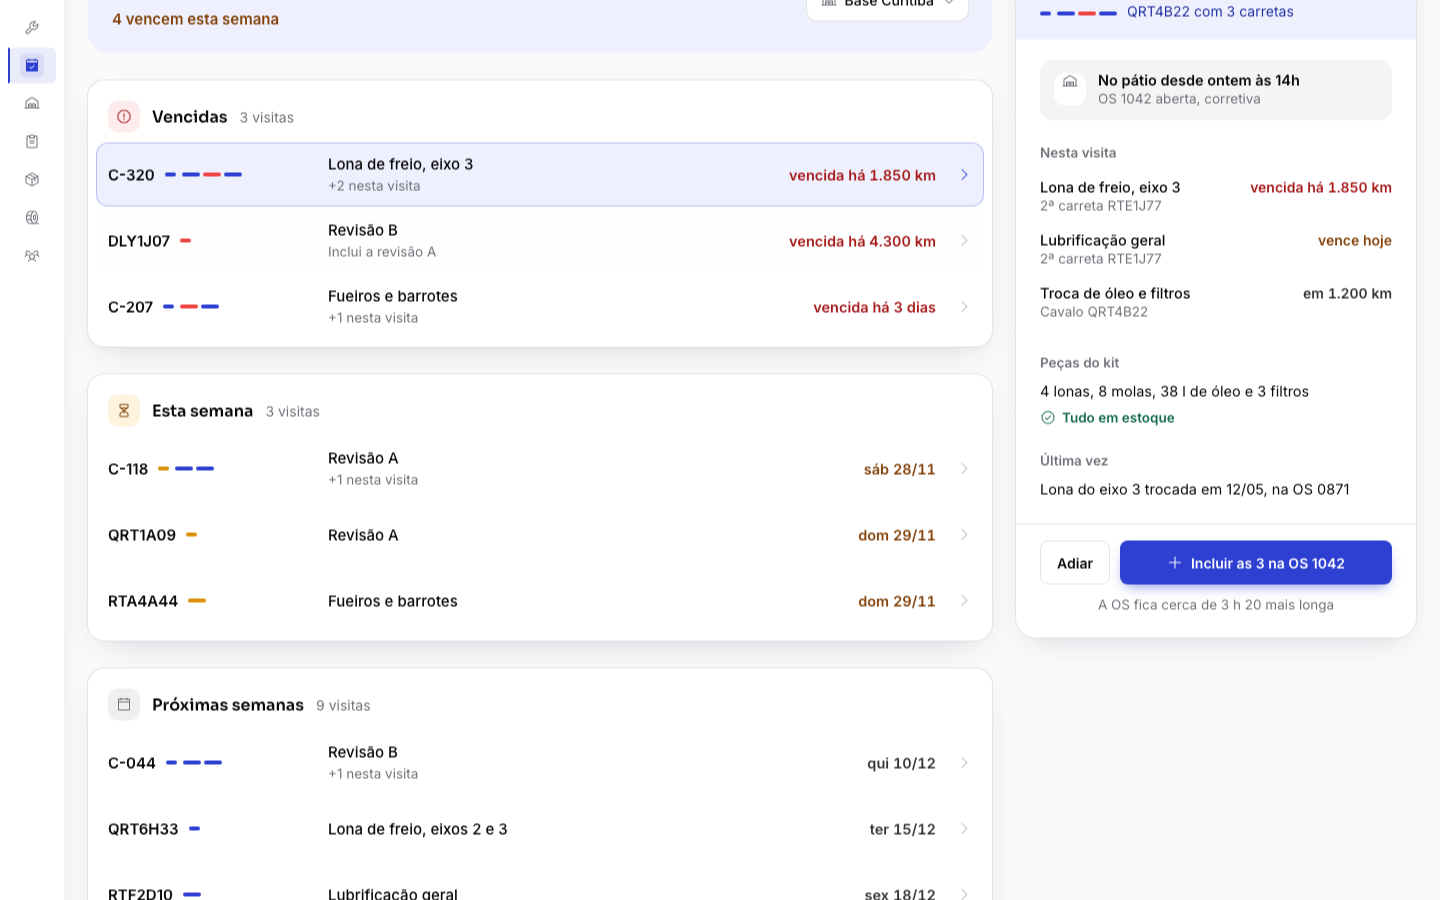
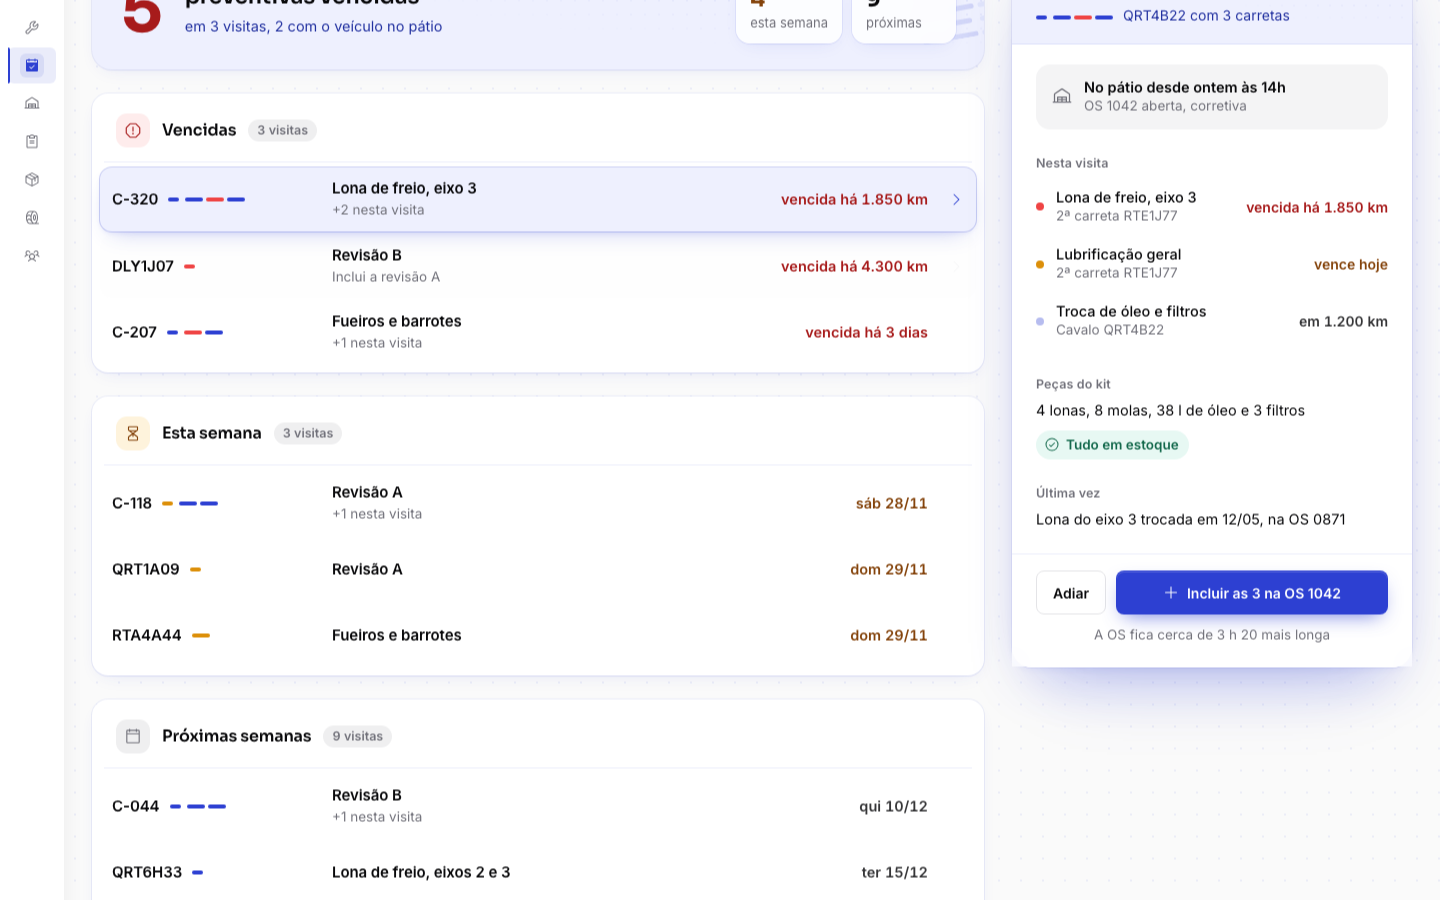
docs(truck): agenda mockup gets depth layers, dot pattern and display summary

diff --git a/static/mockups/truck/preventiva-agenda/agenda.css b/static/mockups/truck/preventiva-agenda/agenda.css
@@ -169,3 +169,115 @@
 .ag.s .hl h2{font-size:24px}
 .xb.back{margin:-4px 0 0 -8px}
 .day.past{box-shadow:none;background:none}
+
+/* =====================================================================
+   Polish layer: depth in four steps (canvas, group, selected row, panel),
+   shadows tinted with the primary hue, faint patterns. Tokens only.
+   ===================================================================== */
+:root,.dark{
+  --hair:hsl(var(--primary)/.09);
+  --e1:0 0 0 1px hsl(var(--primary)/.07),0 1px 2px hsl(var(--primary)/.06),0 6px 20px -10px hsl(var(--primary)/.16);
+  --e2:0 0 0 1px hsl(var(--primary)/.22),0 2px 4px hsl(var(--primary)/.08),0 10px 24px -12px hsl(var(--primary)/.32);
+  --e3:0 0 0 1px hsl(var(--primary)/.08),0 2px 6px hsl(var(--primary)/.06),0 24px 56px -20px hsl(var(--primary)/.30),0 48px 80px -48px hsl(var(--primary)/.22);
+  --dots:hsl(var(--primary)/.07);
+  --pat:hsl(var(--primary)/.14);
+}
+.dark{
+  --e1:inset 0 1px 0 hsl(var(--foreground)/.05),0 0 0 1px hsl(var(--border));
+  --e2:inset 0 1px 0 hsl(var(--foreground)/.06),0 0 0 1px hsl(var(--primary)/.45),0 0 24px -6px hsl(var(--primary)/.35);
+  --e3:inset 0 1px 0 hsl(var(--foreground)/.06),0 0 0 1px hsl(var(--border)),0 0 40px -12px hsl(var(--primary)/.28);
+  --dots:hsl(var(--foreground)/.05);
+  --pat:hsl(var(--primary)/.30);
+}
+/* canvas: barely-there dot grid behind the cards */
+.fx-body.calm{background-color:hsl(var(--background));background-image:radial-gradient(var(--dots) 1px,transparent 1.2px);background-size:22px 22px}
+.ag{gap:28px;padding:16px 16px 48px}
+.col{gap:24px}
+
+/* hero summary: display numeral, the sentence, two stat chips, the composition motif as texture */
+.hero{position:relative;overflow:hidden;isolation:isolate;align-items:center;gap:20px;padding:26px 28px;border-radius:20px;background-color:hsl(var(--primary-soft));box-shadow:var(--e1)}
+.hero::before{content:"";position:absolute;inset:0;z-index:-1;background-image:radial-gradient(var(--pat) 1.1px,transparent 1.4px);background-size:14px 14px;-webkit-mask-image:radial-gradient(120% 140% at 100% 0%,#000 0%,transparent 62%);mask-image:radial-gradient(120% 140% at 100% 0%,#000 0%,transparent 62%)}
+.hero .big{font:700 64px/0.9 Sora;letter-spacing:-.04em;font-variant-numeric:tabular-nums;color:hsl(var(--danger-ink));padding-right:4px}
+.hero .tx h2{font:600 22px/1.2 Sora;letter-spacing:-.01em;white-space:normal;color:hsl(var(--foreground))}
+.hero .tx p{margin-top:6px;font-size:14.5px;color:hsl(var(--info-ink))}
+.stats{display:flex;gap:10px;flex:none;position:relative}
+.st{display:flex;flex-direction:column;gap:2px;min-width:104px;padding:10px 14px;border-radius:14px;background:hsl(var(--card)/.85);box-shadow:var(--e1);backdrop-filter:blur(6px);-webkit-backdrop-filter:blur(6px);font-size:13px;color:hsl(var(--muted-foreground))}
+.st b{font:700 22px/1.1 Sora;letter-spacing:-.02em;font-variant-numeric:tabular-nums;color:hsl(var(--foreground))}
+.st.w b{color:hsl(var(--warning-ink))}
+.motif{position:absolute;right:-12px;bottom:-10px;z-index:-1;display:flex;flex-direction:column;gap:10px;opacity:.55;transform:rotate(-8deg)}
+.motif>span{display:flex;gap:4px;justify-content:flex-end}
+.motif i{display:block;width:30px;height:5px;border-radius:99px;background:hsl(var(--primary)/.22)}
+.motif i.cav{width:18px;margin-right:4px}
+.motif i.o{background:hsl(var(--primary)/.1)}
+.ag.s .hero .big{font-size:56px}
+.ag.s .hero .tx h2{font-size:20px}
+.ag.s .st{min-width:92px}
+
+/* base selector in the top bar */
+.fx-ctl .sel{height:34px;padding:0 30px 0 12px;border-radius:999px;font-size:13.5px;box-shadow:0 0 0 1px hsl(var(--border));position:relative}
+.fx-ctl .sel::after{content:"";position:absolute;right:11px;top:50%;width:14px;height:14px;margin-top:-7px;background:hsl(var(--muted-foreground));-webkit-mask:url(../_kit/icons/caret-down.svg) center/contain no-repeat;mask:url(../_kit/icons/caret-down.svg) center/contain no-repeat}
+
+/* groups: second elevation step, header with tone tile, count pill and hairline */
+.grp{border-radius:16px;padding:8px;box-shadow:var(--e1)}
+.grp>header{padding:12px 12px 14px;margin:0 4px 6px;border-bottom:1px solid var(--hair)}
+.gt{width:34px;height:34px;border-radius:11px}
+.gt .ic{width:18px;height:18px}
+.grp h3{font:600 16px Sora;letter-spacing:-.01em}
+.grp .gc{padding:0 9px;border-radius:999px;background:hsl(var(--muted));font:600 12.5px/22px Inter;font-variant-numeric:tabular-nums;color:hsl(var(--muted-foreground))}
+.vr{border-radius:12px;transition:background-color .15s,box-shadow .15s,transform .15s}
+.vr .who b,.vr .what b{font-weight:600;letter-spacing:-.005em}
+.vr .car{opacity:0;transition:opacity .15s}
+.vr:hover .car,.vr.on .car{opacity:1}
+.vr:focus-visible{outline:none;box-shadow:0 0 0 2px hsl(var(--ring))}
+/* third step: the selected row lifts */
+.vr.on{background:hsl(var(--primary-soft));box-shadow:var(--e2);transform:translateY(-1px)}
+
+/* fourth step: the panel floats */
+.pnl{top:16px;border-radius:20px;box-shadow:var(--e3)}
+.phd{position:relative;overflow:hidden;isolation:isolate;border-bottom:1px solid var(--hair)}
+.phd::before{content:"";position:absolute;inset:0;z-index:-1;background-image:radial-gradient(var(--pat) 1px,transparent 1.3px);background-size:12px 12px;-webkit-mask-image:radial-gradient(90% 120% at 100% 0%,#000,transparent 70%);mask-image:radial-gradient(90% 120% at 100% 0%,#000,transparent 70%)}
+.pnl h2,.sheet h2{letter-spacing:-.01em}
+.pb{gap:26px}
+.ps h4{font:600 12.5px Inter;letter-spacing:.01em;margin-bottom:8px}
+.where{gap:12px;padding:14px 16px;border-radius:14px;background:hsl(var(--secondary))}
+.where .wi{display:grid;place-items:center;color:hsl(var(--secondary-foreground))}
+.where .wi .ic{width:20px;height:20px}
+.it{align-items:center;gap:12px;padding:10px 12px;margin:0 -12px;border-radius:12px}
+.it:hover{background:hsl(var(--accent))}
+.it .dot{width:8px;height:8px;border-radius:99px;flex:none;background:hsl(var(--primary)/.35)}
+.it .dot.d{background:hsl(var(--danger))}.it .dot.w{background:hsl(var(--warning))}
+.ps .ok{display:inline-flex;margin-top:10px;padding:4px 10px 4px 8px;border-radius:999px;background:hsl(var(--success-soft));color:hsl(var(--success-ink))}
+.ps .lack{border-radius:999px;padding:5px 12px 5px 10px}
+.pf{position:sticky;bottom:0;background:hsl(var(--card)/.82);backdrop-filter:blur(12px) saturate(1.4);-webkit-backdrop-filter:blur(12px) saturate(1.4);border-top:1px solid var(--hair)}
+.pf .fx-btn.action{box-shadow:0 1px 0 hsl(var(--primary-foreground)/.18) inset,0 8px 20px -8px hsl(var(--primary)/.7)}
+.day{border-radius:12px}
+.day.pick{box-shadow:0 0 0 2px hsl(var(--ring)),0 8px 18px -8px hsl(var(--primary)/.45)}
+.allgood{box-shadow:var(--e1);position:relative;overflow:hidden;isolation:isolate}
+.allgood::before{content:"";position:absolute;inset:0;z-index:-1;background-image:radial-gradient(var(--pat) 1px,transparent 1.3px);background-size:14px 14px;-webkit-mask-image:radial-gradient(70% 140% at 100% 50%,#000,transparent 70%);mask-image:radial-gradient(70% 140% at 100% 50%,#000,transparent 70%)}
+
+/* phone: same steps; the sheet floats over a blurred list */
+.ph-wrap{gap:18px}
+.ph-wrap .hero{flex-wrap:wrap;gap:12px 14px;padding:20px}
+.ph-wrap .hero .big{font-size:52px}
+.ph-wrap .hero .tx{flex:1;min-width:0}
+.ph-wrap .hero .tx h2{font-size:19px}
+.ph-wrap .stats{width:100%}
+.ph-wrap .st{flex:1;min-width:0;flex-direction:row;align-items:baseline;gap:6px;padding:8px 12px}
+.ph-wrap .st b{font-size:18px}
+.ph-wrap .grp{box-shadow:var(--e1)}
+.mr{border-radius:12px}
+.mr.on{box-shadow:var(--e2)}
+.mr .l1 b{letter-spacing:-.005em}
+.sheet-ov{background:hsl(var(--foreground)/.28);backdrop-filter:blur(5px);-webkit-backdrop-filter:blur(5px)}
+.sheet{box-shadow:var(--e3)}
+.sheet .grab{position:relative;z-index:1}
+.dark .sheet-ov{background:hsl(var(--background)/.6)}
+.dark .hero .big{color:hsl(var(--danger-ink))}
+
+.motif{right:-24px;bottom:auto;top:50%;transform:translateY(-50%) rotate(-10deg);gap:9px;opacity:1;-webkit-mask-image:linear-gradient(to left,#000 30%,transparent 95%);mask-image:linear-gradient(to left,#000 30%,transparent 95%)}
+.motif i{background:hsl(var(--primary)/.16)}.motif i.o{background:hsl(var(--primary)/.07)}
+.dark .motif i{background:hsl(var(--primary)/.28)}.dark .motif i.o{background:hsl(var(--primary)/.12)}
+.ph-wrap .hero{flex-direction:row;align-items:center}
+.ph-wrap .hero .tx p{font-size:13.5px}
+.sheet-ov{top:34px}
+.hero .tx p{text-wrap:balance}

diff --git a/static/mockups/truck/preventiva-agenda/agenda.js b/static/mockups/truck/preventiva-agenda/agenda.js
@@ -31,7 +31,8 @@ const GROUPS=[
 ];
 
 /* ---------- pieces ---------- */
-const head=o=>`<div class="hl"><div class="tx"><h2><span class="d">5 preventivas vencidas</span> em 3 visitas</h2><p><span class="w">4 vencem esta semana</span></p></div>${o.phone?'':`<div class="tools"><span class="sel">${ic('garage','s16')}Base Curitiba${ic('caret-down','s14')}</span></div>`}</div>`;
+const motif=()=>`<span class="motif" aria-hidden="true">${[[1,1,0,1],[1,0,1],[1,1,1,0],[1,0],[1,1,0]].map(r=>`<span>${r.map((x,i)=>`<i class="${i===0?'cav':''} ${x?'':'o'}"></i>`).join('')}</span>`).join('')}</span>`;
+const head=o=>`<div class="hl hero">${motif()}<div class="big">5</div><div class="tx"><h2>preventivas vencidas</h2><p>em 3 visitas, 2 com o veículo no pátio</p></div><div class="stats"><span class="st w"><b>4</b>esta semana</span><span class="st"><b>9</b>próximas</span></div></div>`;
 const search=()=>`<span class="sf" role="search">${ic('magnifying-glass','s16')}<span>Buscar placa ou conjunto</span></span>`;
 function row(id,sel){const v=V[id];
   return `<div class="vr ${sel===id?'on':''}" role="button" tabindex="0"><div class="who"><b>${v.name}</b>${mark(v.parts)}</div><div class="what"><b>${v.svc}</b>${v.more?`<span>${v.more}</span>`:''}</div><div class="when ${v.t}">${v.when}</div>${ic('caret-right','s16 car')}</div>`;}
@@ -39,10 +40,10 @@ function group(g,sel){
   return `<section class="grp"><header><span class="gt ${g.tone}">${ic(g.icon,'s16')}</span><h3>${g.title}</h3><span class="gc">${g.count}</span></header><div class="rows">${g.ids.map(id=>row(id,sel)).join('')}</div>${g.more?`<div class="more">${g.more}${ic('caret-down','s14')}</div>`:''}</section>`;}
 
 const ITEMS_C320=[['Lona de freio, eixo 3','2ª carreta RTE1J77','vencida há 1.850 km','d'],['Lubrificação geral','2ª carreta RTE1J77','vence hoje','w'],['Troca de óleo e filtros','Cavalo QRT4B22','em 1.200 km','']];
-const item=([n,s,v,t])=>`<div class="it"><div class="n"><b>${n}</b><span>${s}</span></div><span class="v ${t}">${v}</span></div>`;
+const item=([n,s,v,t])=>`<div class="it"><i class="dot ${t}"></i><div class="n"><b>${n}</b><span>${s}</span></div><span class="v ${t}">${v}</span></div>`;
 function pHead(v,o={}){return `<div class="phd">${o.phone?'<div class="grab"></div>':''}<div class="ph">${o.back?`<span class="xb back" role="button" aria-label="Voltar">${ic('arrow-left','s16')}</span>`:''}<div class="t"><h2>${o.title||v.full}</h2><p>${o.title?'':mark(v.parts)}${o.sub||v.sub}</p></div>${o.back?'':`<span class="xb" role="button" aria-label="Fechar">${ic('x','s16')}</span>`}</div></div>`;}
 function visitBody(){
-  return `<div class="where"><span class="gt">${ic('garage','s16')}</span><div><b>No pátio desde ontem às 14h</b><span>OS 1042 aberta, corretiva</span></div></div>
+  return `<div class="where"><span class="wi">${ic('garage','s16')}</span><div><b>No pátio desde ontem às 14h</b><span>OS 1042 aberta, corretiva</span></div></div>
   <div class="ps"><h4>Nesta visita</h4>${ITEMS_C320.map(item).join('')}</div>
   <div class="ps"><h4>Peças do kit</h4><p>4 lonas, 8 molas, 38 l de óleo e 3 filtros</p><span class="ok">${ic('check-circle','s16')}<b>Tudo em estoque</b></span></div>
   <div class="ps"><h4>Última vez</h4><p>Lona do eixo 3 trocada em 12/05, na OS 0871</p></div>`;}
@@ -51,7 +52,7 @@ const visitFoot=(phone)=>`<div class="pf"><div class="bb">${btn('Adiar',{variant
 const WD=['seg','ter','qua','qui','sex','sáb'];
 const DAYS=[['23','',2],['24','',2],['25','',2],['26','cheia',1],['27','cheia',1],['28','6 h',0,1],['30','18 h'],['01','22 h'],['02','28 h'],['03','3 h',1],['04','32 h'],['05','8 h']];
 function scheduleBody(){
-  return `<div class="where"><span class="gt">${ic('road-horizon','s16')}</span><div><b>Rodando, 640 km por dia</b><span>Fora do pátio desde 21/11</span></div></div>
+  return `<div class="where"><span class="wi">${ic('road-horizon','s16')}</span><div><b>Rodando, 640 km por dia</b><span>Fora do pátio desde 21/11</span></div></div>
   <div class="ps cal"><h4>Quando trazer</h4><p class="cap">Horas livres por dia na oficina. A visita leva 4&nbsp;h.</p>
   <div class="wk">${WD.map(d=>`<span class="wd">${d}</span>`).join('')}${DAYS.map(([n,l,off,pick])=>`<div class="day ${off===2?'off past':off?'off':''} ${pick?'pick':''}"><b>${n}</b><span>${l||'&nbsp;'}</span></div>`).join('')}</div><p class="first">${ic('calendar-check','s16')}<span><b>Primeira vaga: sáb 28/11</b>, 6&nbsp;h livres</span></p></div>
   <div class="ps"><h4>Itens da visita</h4>${item(['Revisão B','Inclui a revisão A','vencida há 4.300 km','d'])}<span class="lack">${ic('package','s16')}Falta 1 filtro de ar; o pedido sai junto</span></div>
@@ -65,7 +66,7 @@ function skList(phone){
 }
 
 const C044={full:'Conjunto C-044',sub:'QRT2E55 com 2 carretas',parts:V.c044.parts};
-function nextPanel(){return `<aside class="pnl">${pHead(C044)}<div class="pb"><div class="where"><span class="gt">${ic('road-horizon','s16')}</span><div><b>Rodando, 610 km por dia</b><span>Fora do pátio desde 18/11</span></div></div>
+function nextPanel(){return `<aside class="pnl">${pHead(C044)}<div class="pb"><div class="where"><span class="wi">${ic('road-horizon','s16')}</span><div><b>Rodando, 610 km por dia</b><span>Fora do pátio desde 18/11</span></div></div>
   <div class="ps"><h4>Nesta visita</h4>${item(['Revisão B','Cavalo QRT2E55','qui 10/12',''])}${item(['Lubrificação geral','1ª carreta RTD8F12','sáb 12/12',''])}</div>
   <div class="ps"><h4>Peças do kit</h4><p>38 l de óleo, 4 filtros e graxa</p><span class="ok">${ic('check-circle','s16')}<b>Tudo em estoque</b></span></div></div>
   <div class="pf"><div class="bb">${btn('Adiar',{variant:'outline'})}${btn('Agendar visita',{icon:'calendar-check',action:1})}</div></div></aside>`;}
@@ -89,7 +90,7 @@ function phone(s){
   if(s==='loading') return `<div class="ph-wrap">${skList(1)}</div>`;
   if(s==='empty') return `<div class="ph-wrap"><div class="allgood" style="flex-direction:column;text-align:center;padding:28px 20px"><span class="halo">${ic('calendar-check','s24')}</span><div><b>Frota em dia esta semana</b><p>Nenhuma preventiva vencida. A próxima é a revisão B do C-044, na qui 10/12.</p></div></div>${mgroup(GROUPS[2],null)}</div>`;
   const sel=s==='list'?null:s==='schedule'?'dly':'c320';
-  const list=`<div class="ph-wrap">${head({phone:1}).replace('</div></div>',`</div>${search()}</div>`)}${GROUPS.map(g=>mgroup(g,sel)).join('')}</div>`;
+  const list=`<div class="ph-wrap">${head({phone:1})}${search()}${GROUPS.map(g=>mgroup(g,sel)).join('')}</div>`;
   if(s==='list') return list;
   const sheet=s==='schedule'
     ?`<div class="sheet-ov"><div class="sheet">${pHead(V.dly,{phone:1,title:'Agendar visita',sub:'DLY1J07, revisão B',back:1})}<div class="sb">${scheduleBody()}</div>${scheduleFoot()}</div></div>`

diff --git a/static/mockups/truck/preventiva-agenda/index.html b/static/mockups/truck/preventiva-agenda/index.html
@@ -18,8 +18,8 @@
     <p class="why">De cima para baixo: <b>a frase do resumo</b>, os grupos por quando e as linhas. Cada grupo é uma superfície própria com espaço entre elas; só o grupo leva cor, no ícone. Vermelho só no número vencido, âmbar só na data desta semana, azul só na ação principal, na seleção e nos links.</p>
     <div class="states" data-for="ag"><button data-s="visit" aria-pressed="true">Visita no pátio escolhida</button><button data-s="schedule" aria-pressed="false">Agendar visita</button><button data-s="empty" aria-pressed="false">Nada vencendo</button><button data-s="loading" aria-pressed="false">Carregando</button></div>
     <div class="themebar"><button data-t="light" aria-pressed="true">Tema claro</button><button data-t="dark" aria-pressed="false">Tema escuro</button></div>
-    <div class="devices"><div class="dv full"><div class="devlabel">Notebook · 1440</div><fx-app device="web" section="plan" console eyebrow="Preventiva" title="Agenda" width="1440" height="1180"><div data-render="ag" data-device="web"></div></fx-app></div></div>
-    <div class="devices"><div class="dv full"><div class="devlabel">Notebook · 1180</div><fx-app device="web" section="plan" console eyebrow="Preventiva" title="Agenda" width="1180" height="1180"><div data-render="ag" data-device="webs"></div></fx-app></div></div>
+    <div class="devices"><div class="dv full"><div class="devlabel">Notebook · 1440</div><fx-app device="web" section="plan" console eyebrow="Preventiva" title="Agenda" controls="&lt;span class=&quot;sel&quot;&gt;Base Curitiba&lt;/span&gt;" width="1440" height="1180"><div data-render="ag" data-device="web"></div></fx-app></div></div>
+    <div class="devices"><div class="dv full"><div class="devlabel">Notebook · 1180</div><fx-app device="web" section="plan" console eyebrow="Preventiva" title="Agenda" controls="&lt;span class=&quot;sel&quot;&gt;Base Curitiba&lt;/span&gt;" width="1180" height="1180"><div data-render="ag" data-device="webs"></div></fx-app></div></div>
   </section>
 
   <section class="sc" id="celular"><h2><span class="tag">2</span>Celular</h2>
@@ -49,6 +49,7 @@
         <tr><td>Menor texto</td><td>11 px, em caixa alta</td><td>12,5 px; secundário em 13,5 px</td></tr>
         <tr><td>Altura da linha</td><td>48 px</td><td>64 px</td></tr>
         <tr><td>Entre grupos</td><td>1 linha de 1 px</td><td>28 px e uma superfície por grupo</td></tr>
+        <tr><td>Profundidade</td><td>tudo no mesmo plano</td><td>4 camadas: fundo, grupo, linha escolhida, painel</td></tr>
         <tr><td>Desenho do conjunto</td><td>caminhão com rodas e sinais</td><td>um traço por veículo</td></tr>
       </tbody></table></div>
       <div class="box" style="grid-column:1/-1"><h3>De onde vem cada cor</h3><table class="cmp"><thead><tr><th>Onde</th><th>Token do tema Truck</th></tr></thead><tbody>
@@ -56,6 +57,7 @@
         <tr><td><span class="tok" style="background:hsl(var(--card))"></span>Grupos e painel</td><td><code>--card</code> com contorno <code>--border</code> e sombra <code>--shadow-card</code></td></tr>
         <tr><td><span class="tok" style="background:hsl(var(--primary-soft))"></span>Resumo, linha escolhida, topo do painel, dia escolhido</td><td><code>--primary-soft</code>, texto em <code>--info-ink</code>, contorno da linha em <code>--primary</code> a 28%</td></tr>
         <tr><td><span class="tok" style="background:hsl(var(--primary))"></span>Ação principal, links, seta da linha escolhida, foco, item do menu, traço do veículo</td><td><code>--primary</code> e <code>--ring</code></td></tr>
+        <tr><td><span class="tok" style="background:hsl(var(--primary)/.3)"></span>Sombras das 4 camadas, pontos do fundo e do resumo, traços de textura</td><td><code>--primary</code> de 6% a 30%; no escuro viram contorno <code>--border</code> e brilho de <code>--primary</code></td></tr>
         <tr><td><span class="tok" style="background:hsl(var(--accent))"></span>Linha sob o mouse, filtro e botão escolhidos</td><td><code>--accent</code></td></tr>
         <tr><td><span class="tok" style="background:hsl(var(--secondary))"></span>Onde está o veículo, dias do calendário</td><td><code>--secondary</code></td></tr>
         <tr><td><span class="tok" style="background:hsl(var(--muted))"></span>Carregando, ícone dos grupos sem urgência</td><td><code>--muted</code>, texto secundário em <code>--muted-foreground</code></td></tr>
